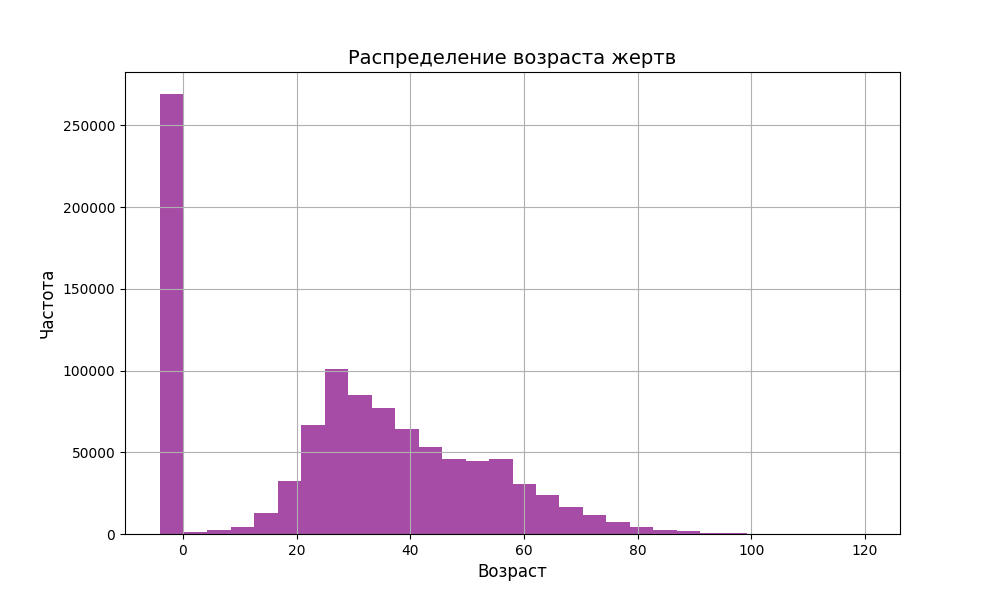
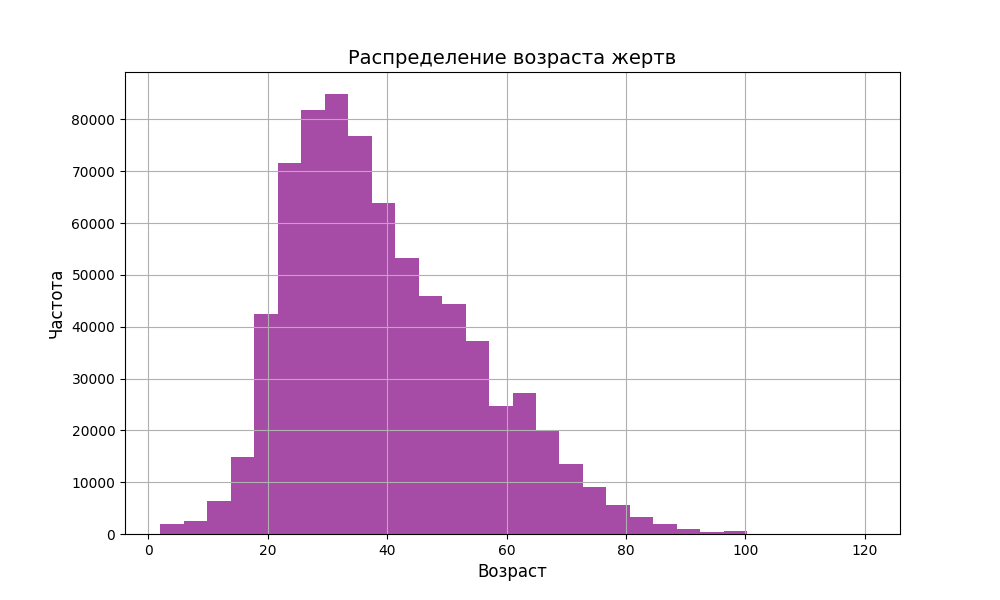
6 pr

diff --git a/Practic6/task.py b/Practic6/task.py
@@ -71,6 +71,7 @@ weapon_counts.plot(kind='bar',x=weapon_counts.values, y=weapon_counts.index)
 plt.title('Количество преступлений по типу оружия')
 plt.xlabel('Тип оружия')
 plt.ylabel('Количество')
+plt.xticks(rotation=45, ha='right')
 plt.savefig(graphics_folder+'/weapon_count')
 plt.show()
 
@@ -96,7 +97,7 @@ plt.show()
 
 # 4. Гистограмма: Распределение возраста жертв
 plt.figure(figsize=(10, 6))
-plt.hist(df['Vict Age'].dropna(), bins=30, color='purple', alpha=0.7)
+plt.hist(df[df['Vict Age'] > 0]['Vict Age'].dropna(), bins=30, color='purple', alpha=0.7)
 plt.title('Распределение возраста жертв', fontsize=14)
 plt.xlabel('Возраст', fontsize=12)
 plt.ylabel('Частота', fontsize=12)
